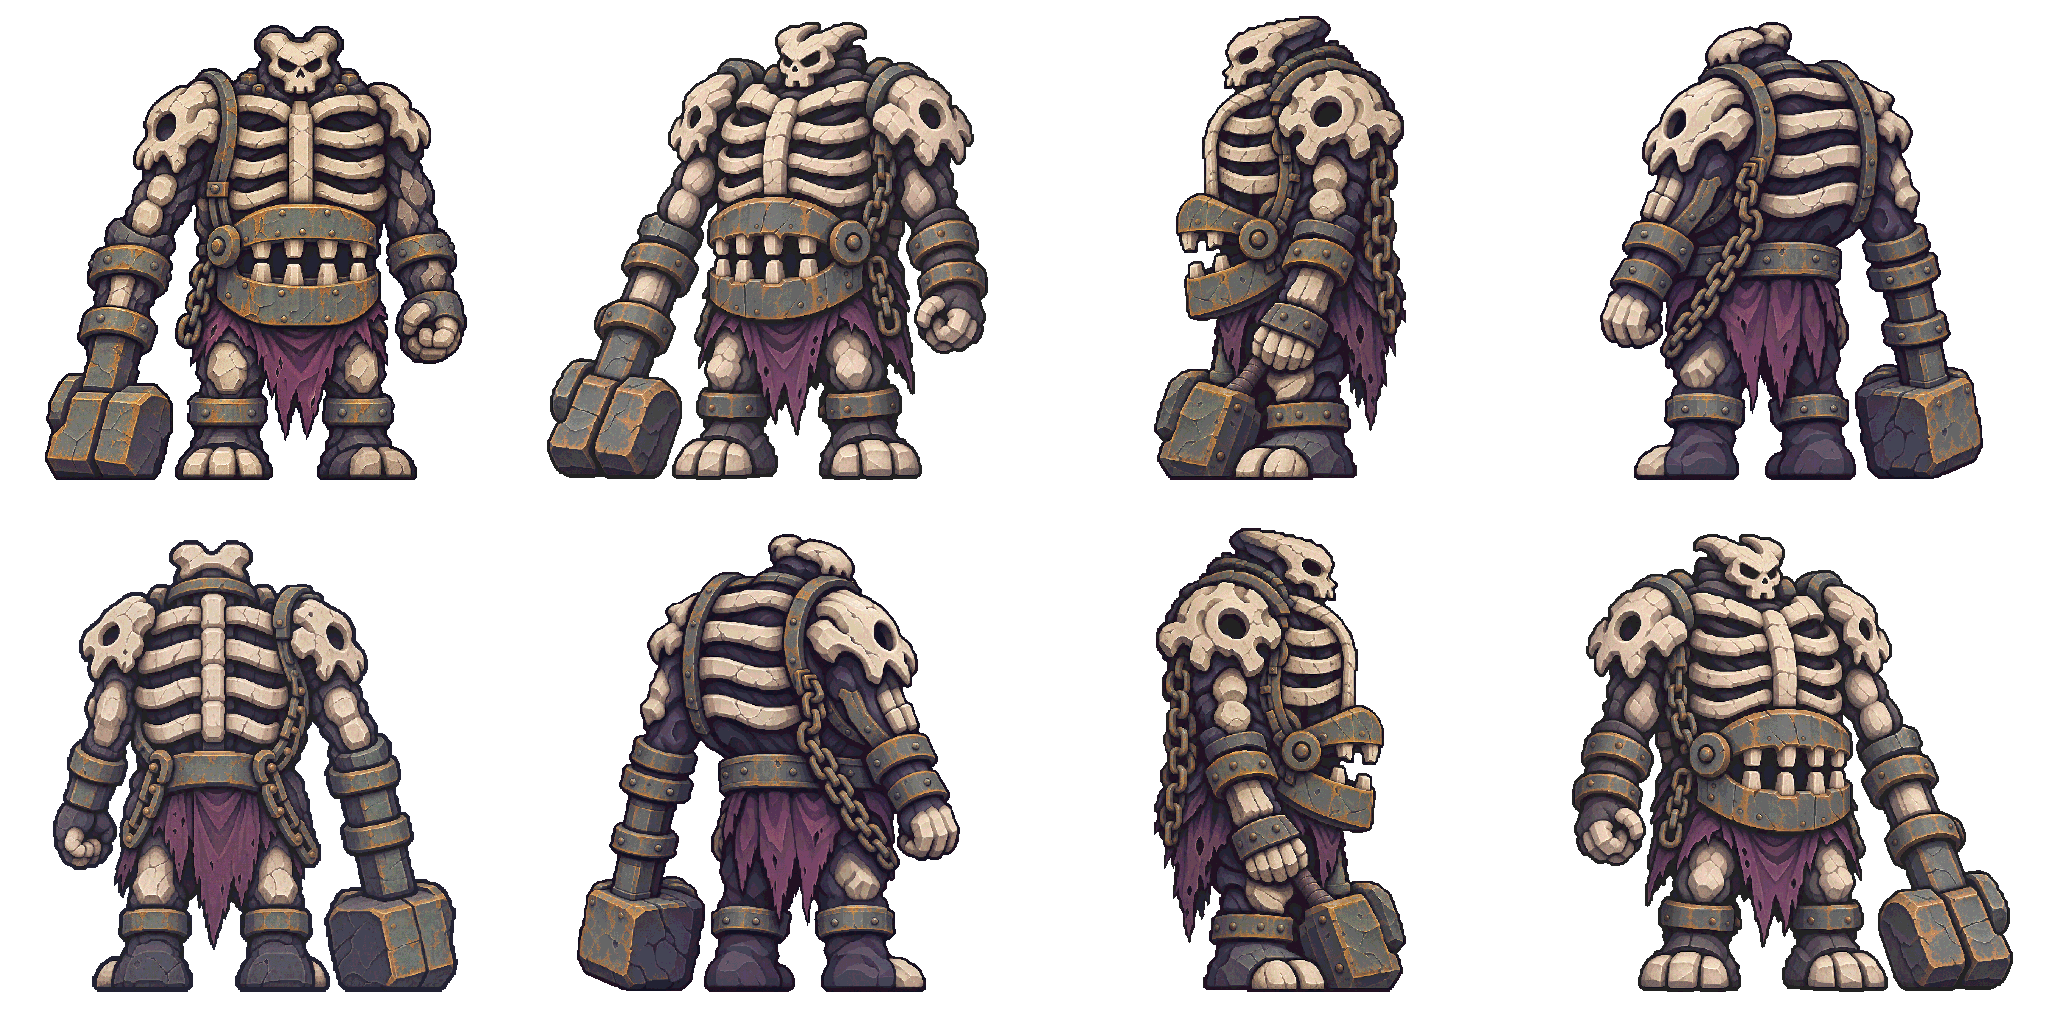
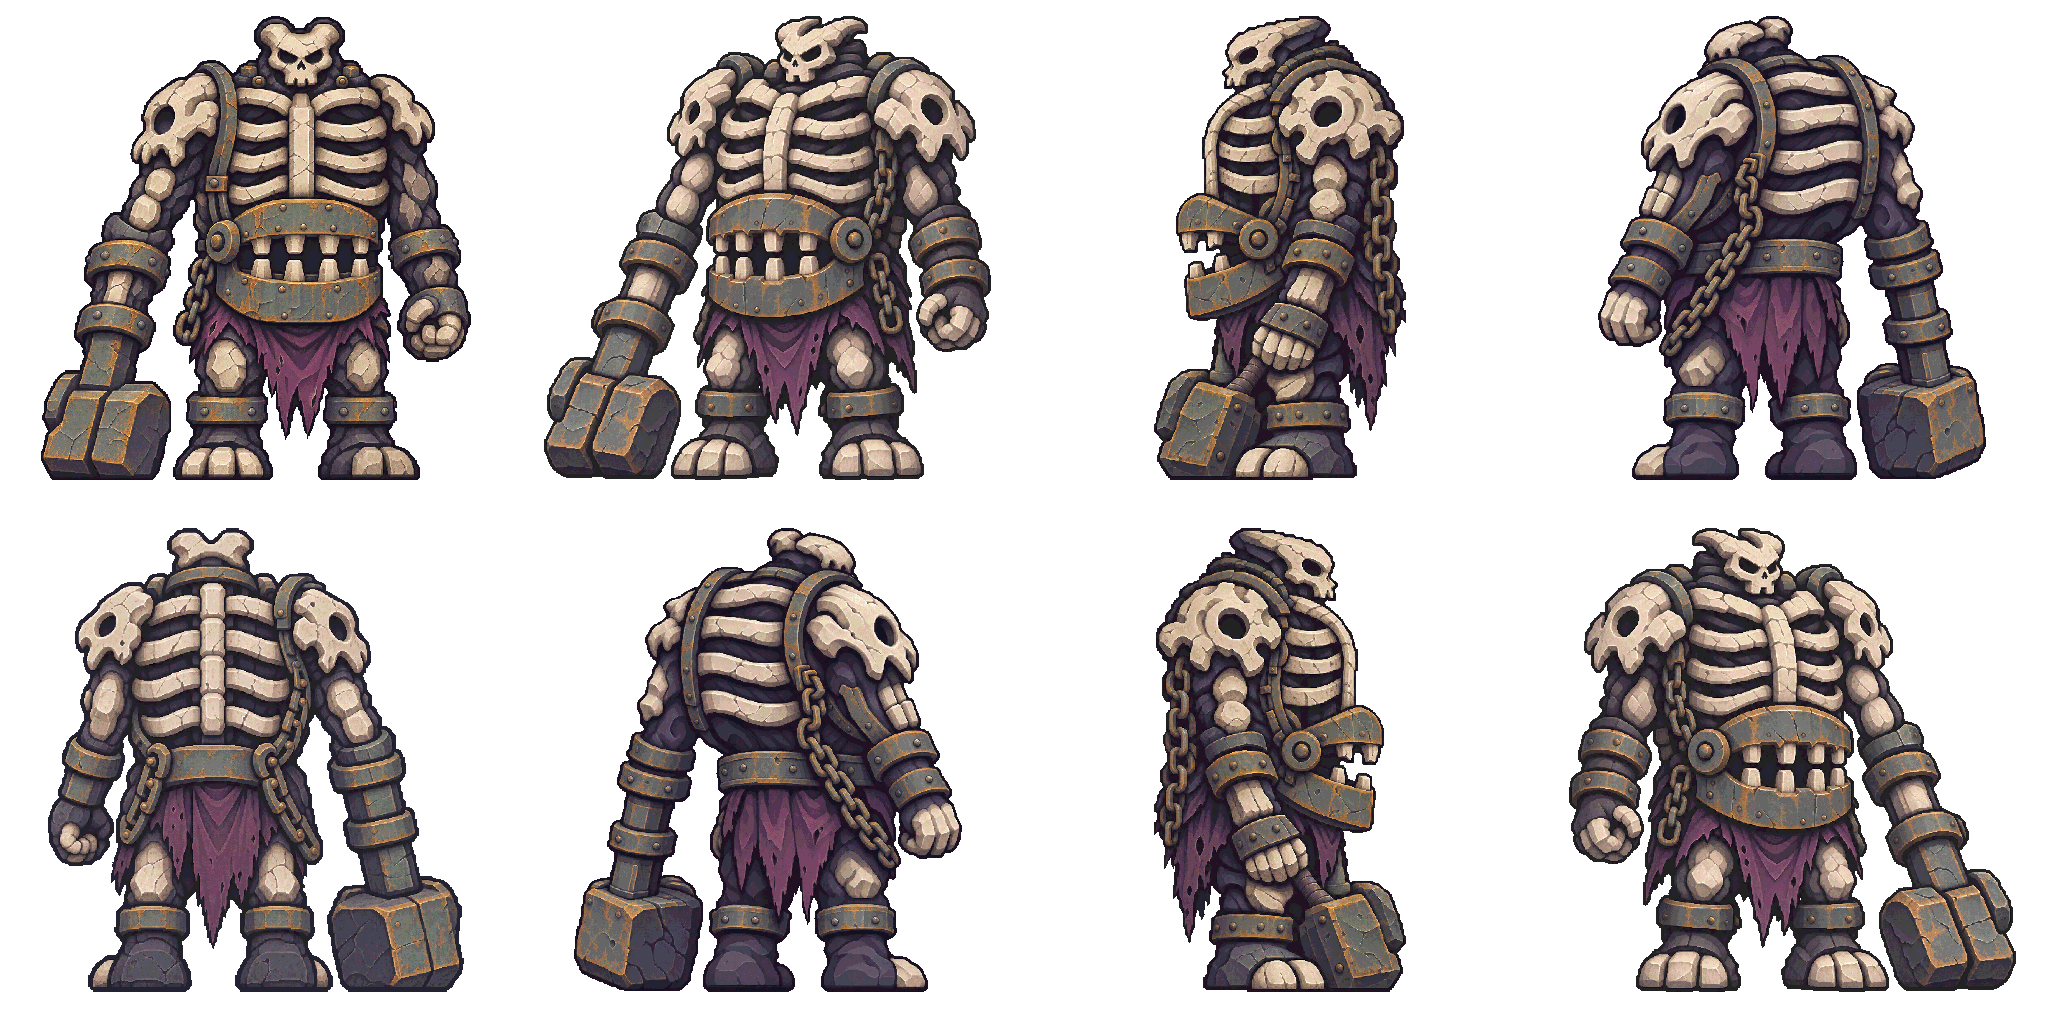
Publish pre-PixelLab concept bundle: ossuary_guard

diff --git a/리포트/projects/dotaction/posts/2026-11-20-result-20261120045318736-v1.0.0.md b/리포트/projects/dotaction/posts/2026-11-20-result-20261120045318736-v1.0.0.md
@@ -1,0 +1,57 @@
+---
+title: 철턱 파괴자 · 대형512칸 방향 원본 재제작
+date: 2026-11-20T04:53:18.736Z
+version: v1.0.0
+status: 검증 대기
+state: verification
+project: dotaction
+type: 작업 결과
+report_kind: result
+category: 작업 결과
+summary: 덩치에 비해 축소된 방향 시안을 한 칸512 기준으로 신규 재제작했습니다.
+format: tracefolio-v2
+priority: normal
+severity: normal
+reporter: Codex
+assignee: Codex
+payload: ../assets/submissions/2026-11-20-result-20261120045318736-v1.0.0.json
+---
+
+## 작업 결과
+
+철턱 파괴자의5방향을 각각 새로 그려512칸8방향 시트로 재구성했습니다. 기존64칸 확대가 아닙니다. 일러스트·T포즈는 기존 선택본을 유지합니다. 전체 최신화는 진행 중입니다.
+
+![일러스트](../assets/pre-pixellab-ossuary_guard-512-20261120/illustration.webp)
+
+![정후면 몸체와 분리 장비](../assets/pre-pixellab-ossuary_guard-512-20261120/tpose.webp)
+
+![512칸8방향 · 전체2048×1024](../assets/pre-pixellab-ossuary_guard-512-20261120/directions.webp)
+
+## 변경 내용
+
+### 적용 내용
+
+Ossuary iron-jaw destroyer: upright hulking two-legged monster, tall rectangular rib cage armor, giant split hinged metal jaw hanging as chest, long asymmetric stone-breaking hammer arm and stubby legs. Towering blocky silhouette, not a quadruped.
+
+일러스트 자세: Heavy crouched ground-smash preparation, shoulders raised high and existing weapon pulled behind body
+
+일러스트·프로필·몸체 정후면·분리 장비·방향 원본·128 패딩본·대기 참조·출처/프롬프트/해시를 art/characters/철턱파괴자에 저장했습니다. 문서 아카이브도 같은 시안으로 연결했습니다. 게임 모션·공격·FX는 교체하지 않았습니다.
+
+### 대화 기록
+사용자 요청: 누락된 캐릭터/몬스터를 PixelLab 전 단계까지 최신화하고 한 종씩 보고. 몬스터 일러스트는 다양한 자세로 위협적이고 무섭게 제작.
+
+후속 요청: 덩치에 비해 작아진 몬스터는512로 늘려 다시 제작. 종별 대형 규격 허용.5방향 각각 ImageGen 신규 제작→512칸 픽셀 파생→3정확한 반전→전체2048×1024.512 대기 참조를 제공하며 이전64/128 방향 파생과 제작 원본은 ZIP에 보존했습니다.
+
+## 검증
+
+실제 신규5방향 원본과512칸 결과 외형 확인. 전체2048×1024, 칸512×512, NE=NW/E=W/SE=SW 정확한 바이트 반전 확인. 과거 파일 ZIP 보관 후 해시 대조. 기존64칸 이미지를 확대하지 않았습니다. 선택 픽셀 파생만 정규화하고 문서 빌드·게시용 WebP 재열기 확인. PixelLab 호출0회, 게임 연결/실행/회귀 테스트 미실행.
+
+## 남은 사항
+
+최종 사용자 미감 승인 대기. PixelLab/리그 파츠/모션·FX·음향 신규 제작과 게임 연결은 이번 요청 범위 밖입니다. 전체 최신화의 나머지 대상은 진행 중입니다. SkillEvaluator는 스킬 변경이 없어 비대상, CLI-Anything은 GUI 조작 없이 ImageGen 및 기존 파일 API를 사용하여 비대상. 대형512칸 예외를 프로젝트 제작 지침과 문서에 반영했습니다. 업데이트 원격 확인 latest2026-11-20-011, 새 채팅 지침의 개별 시안 직접 표시 적용.
+
+## 작업 시간
+
+- 제안 시간: 512칸 대형 몬스터18종 재제작/제작으로 전체 예상에 약60~100분 추가. 종별 원본5장 신규 제작·보관·문서·게시.
+- 실제로 완료된 시간: 이 종512 재제작 시작부터 최종 저장까지 실측 경과 16.3분. 시작 2026-11-20T13:35:48.263000+09:00, 저장 2026-11-20T13:52:03.905820+09:00 (Asia/Seoul). 타 종 제작·게시 확인을 병행한 경과 시간이며 순수 실작업 시간은 별도 미계측. 이 보고서 푸시 이후 배포 대기는 별도.
+- XERJ: 미사용 — 지침에 따라 사용하지 않음. 파일 검색 rg, 기존 이미지와 데이터 대조.
